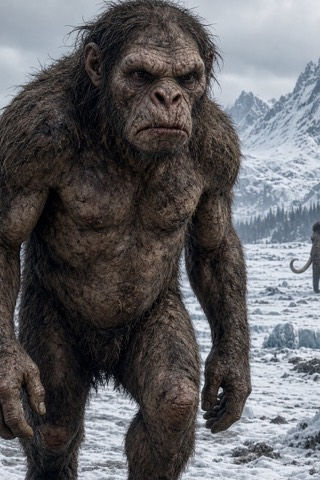
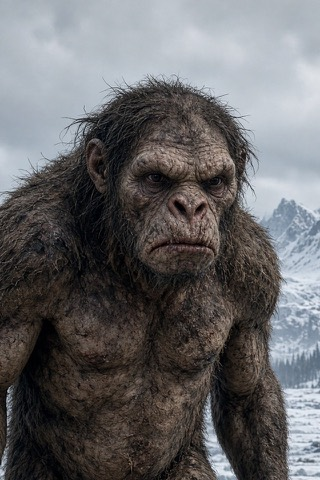
Ice Age board cards framed on each face (zoom 1.45 -> 1.8, Atlas Sentinel 2.3); What's New line for the next update

diff --git a/web/index.html b/web/index.html
@@ -4154,6 +4154,7 @@ void main() {
     // Release notes (the home screen's POLY card): what's new for players in the next build. Update for every release.
     // First public release: What's New reads as a short tour of the game, not the beta changelog. Later updates prepend their lines.
     const RELEASE_NOTES={version:'1.1.1',lines:[
+      "Ice Age cards are now framed on each monkey's face, and the Ice Age Joker is frozen solid.",
       'Fixed: the game could go silent after switching to another app (like Messages) and coming back.',
       'The level-complete screen now shows your leaderboard score, and whether the level counted toward it.',
       'Shared Puzzles: build one with up to 5 friends at the same time. Use the arrows on Puzzles › SHARED to switch between them.',

diff --git a/web/i18n/es.js b/web/i18n/es.js
@@ -158,6 +158,7 @@ window.ES_TEXT={
   "🔥 {0} DAYS +{1}%":"🔥 {0} DÍAS +{1}%",
   "TROOP LV {0} · +{1} XP":"TROPA NV {0} · +{1} XP",
   "NO CHANGE":"SIN CAMBIOS",
+  "Ice Age cards are now framed on each monkey's face, and the Ice Age Joker is frozen solid.":"Las cartas de la Edad de Hielo ahora se centran en la cara de cada mono, y el Comodín de la Edad de Hielo está congelado.",
   "Fixed: the game could go silent after switching to another app (like Messages) and coming back.":"Corregido: el juego podía quedarse sin sonido al cambiar a otra app (como Mensajes) y volver.",
   "RANK":"PUESTO",
   "UP FROM #{0}":"ANTES #{0}",
